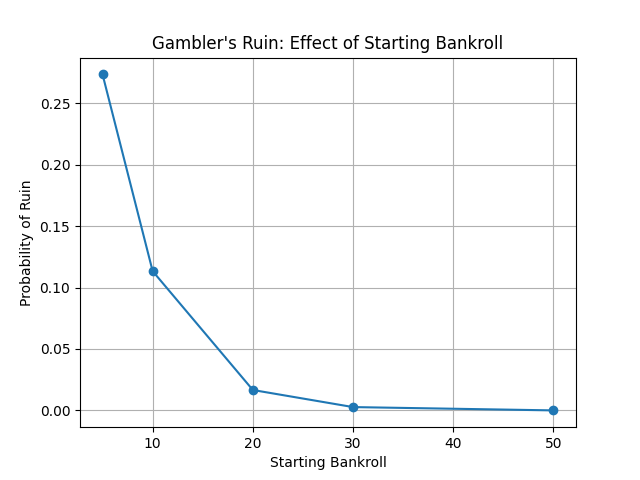
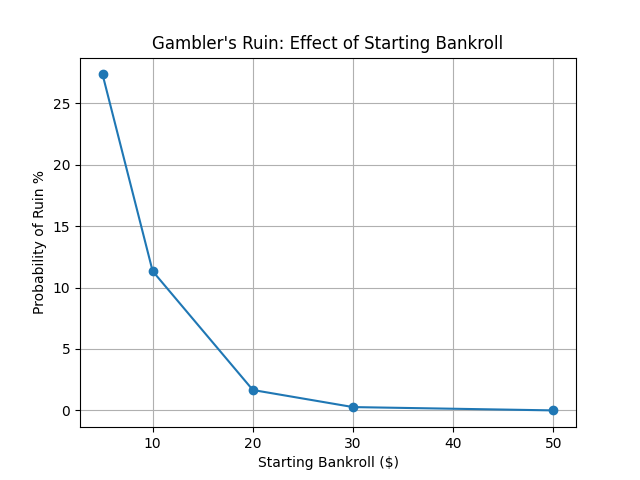
Complete Gambler's Ruin simulation project

diff --git a/P02_Gamblers_Ruin/src/simulation.py b/P02_Gamblers_Ruin/src/simulation.py
@@ -5,14 +5,48 @@ import matplotlib.pyplot as plt
 random.seed(42)
 WIN_PROBABILITY = 0.55
 NUM_SIMULATIONS = 10000
+START_BANKROLL = 40
+
+output_dir = Path(__file__).resolve().parent.parent / "output"
+output_dir.mkdir(parents=True, exist_ok=True)
 
 start_bankrolls = [5, 10, 20, 30, 50]
 win_probabilities = [0.5, 0.51, 0.55, 0.6]
-ruin_probability = []
+bet_sizes = []
 
-def simulate_game(start_bankroll, target_bankroll, win_probability):
+win_ruin_probabilities = []
+bankroll_ruin_probabilities = []
+bet_ruin_probabilities = []
+
+def simulate_game(start_bankroll, target_bankroll, win_probability, bet_size):
 
     bankroll = start_bankroll
+
+    while 0 < bankroll < target_bankroll:
+        x = random.random()
+        if x <= win_probability:
+            bankroll += bet_size
+        else:
+            bankroll -= bet_size
+
+    if bankroll <= 0:
+        return True
+    return False
+
+def estimate_ruin_probability(start_bankroll, target_bankroll, win_probability, bet_size):
+
+    loss_nr = 0
+
+    for _ in range(NUM_SIMULATIONS):
+        if simulate_game(start_bankroll, target_bankroll, win_probability, bet_size):
+            loss_nr += 1
+    
+    return loss_nr / NUM_SIMULATIONS
+
+def simulate_bankroll_path(start_bankroll, target_bankroll, win_probability):
+
+    bankroll = start_bankroll
+    path = [bankroll]
 
     while 0 < bankroll < target_bankroll:
         x = random.random()
@@ -20,52 +54,71 @@ def simulate_game(start_bankroll, target_bankroll, win_probability):
             bankroll += 1
         else:
             bankroll -= 1
+        path.append(bankroll)
 
-    if bankroll == 0:
-        return True
-    return False
+    return path
 
-def estimate_ruin_probability(start_bankroll, target_bankroll, win_probability):
-
-    loss_nr = 0
-
-    for _ in range(NUM_SIMULATIONS):
-        if simulate_game(start_bankroll, target_bankroll, win_probability):
-            loss_nr += 1
-    
-    return loss_nr/NUM_SIMULATIONS
-
-###########     EXPERIMENT 1     ###########
+###########     EXPERIMENT 1: WIN PROBABILITY VS RUIN PROBABILITY     ###########
 
 for p in win_probabilities:
-    ruin_probability.append(estimate_ruin_probability(10, 20, p))
+    win_ruin_probabilities.append(100 * estimate_ruin_probability(10, 20, p, 1))
 
-plt.plot(win_probabilities, ruin_probability, marker="o")
+plt.plot(win_probabilities, win_ruin_probabilities, marker="o")
 plt.xlabel("Win Probability")
-plt.ylabel("Probability of Ruin")
+plt.ylabel("Probability of Ruin %")
 plt.title("Gambler's Ruin: Effect of Win Probability")
 plt.grid(True)
-
-output_dir = Path(__file__).resolve().parent.parent / "output"
-output_dir.mkdir(parents=True, exist_ok=True)
 
 plt.savefig(output_dir / "ruin_probability.png")
 plt.close()
 
-###########     EXPERIMENT 2     ###########
+###########     EXPERIMENT 2: STARTING BANKROLL VS RUIN PROBABILITY     ###########
 
-ruin_probability.clear()
 for b in start_bankrolls:
-    ruin_probability.append(estimate_ruin_probability(b, b * 2, 0.55))
+    bankroll_ruin_probabilities.append(100 * estimate_ruin_probability(b, b * 2, WIN_PROBABILITY, 1))
 
-plt.plot(start_bankrolls, ruin_probability, marker="o")
-plt.xlabel("Starting Bankroll")
-plt.ylabel("Probability of Ruin")
+plt.plot(start_bankrolls, bankroll_ruin_probabilities, marker="o")
+plt.xlabel("Starting Bankroll ($)")
+plt.ylabel("Probability of Ruin %")
 plt.title("Gambler's Ruin: Effect of Starting Bankroll")
 plt.grid(True)
 
-output_dir = Path(__file__).resolve().parent.parent / "output"
-output_dir.mkdir(parents=True, exist_ok=True)
-
 plt.savefig(output_dir / "bankroll_vs_ruin.png")
 plt.close()
+
+###########     EXPERIMENT 3: SAMPLE BANKROLL PATHS     ###########
+
+for i in range(10):
+    path = simulate_bankroll_path(10, 20, WIN_PROBABILITY)
+    plt.plot(path, label=f"Game {i + 1}")
+
+plt.xlabel("Number of Bets")
+plt.ylabel("Bankroll ($)")
+plt.title("Gambler's Ruin: Sample Bankroll Paths")
+plt.legend()
+plt.grid(True)
+
+plt.savefig(output_dir / "sample_paths.png")
+plt.close()
+
+###########     EXPERIMENT 4: BET SIZE VS RUIN PROBABILITY     ###########
+
+for bet in range(1, int(START_BANKROLL / 2) + 1):
+        if START_BANKROLL % bet == 0:
+            bet_sizes.append(bet)
+
+for bet in bet_sizes:
+    bet_ruin_probabilities.append(100 * estimate_ruin_probability(START_BANKROLL, START_BANKROLL * 2, WIN_PROBABILITY, bet))
+
+plt.plot(bet_sizes, bet_ruin_probabilities, marker="o")
+
+plt.xlabel("Bet Size ($)")
+plt.ylabel("Probability of Ruin %")
+plt.title("Gambler's Ruin: Effect of Bet Size")
+
+plt.xticks(bet_sizes)
+plt.grid(True)
+
+plt.savefig(output_dir / "bet_size_vs_ruin.png")
+plt.close()
+
